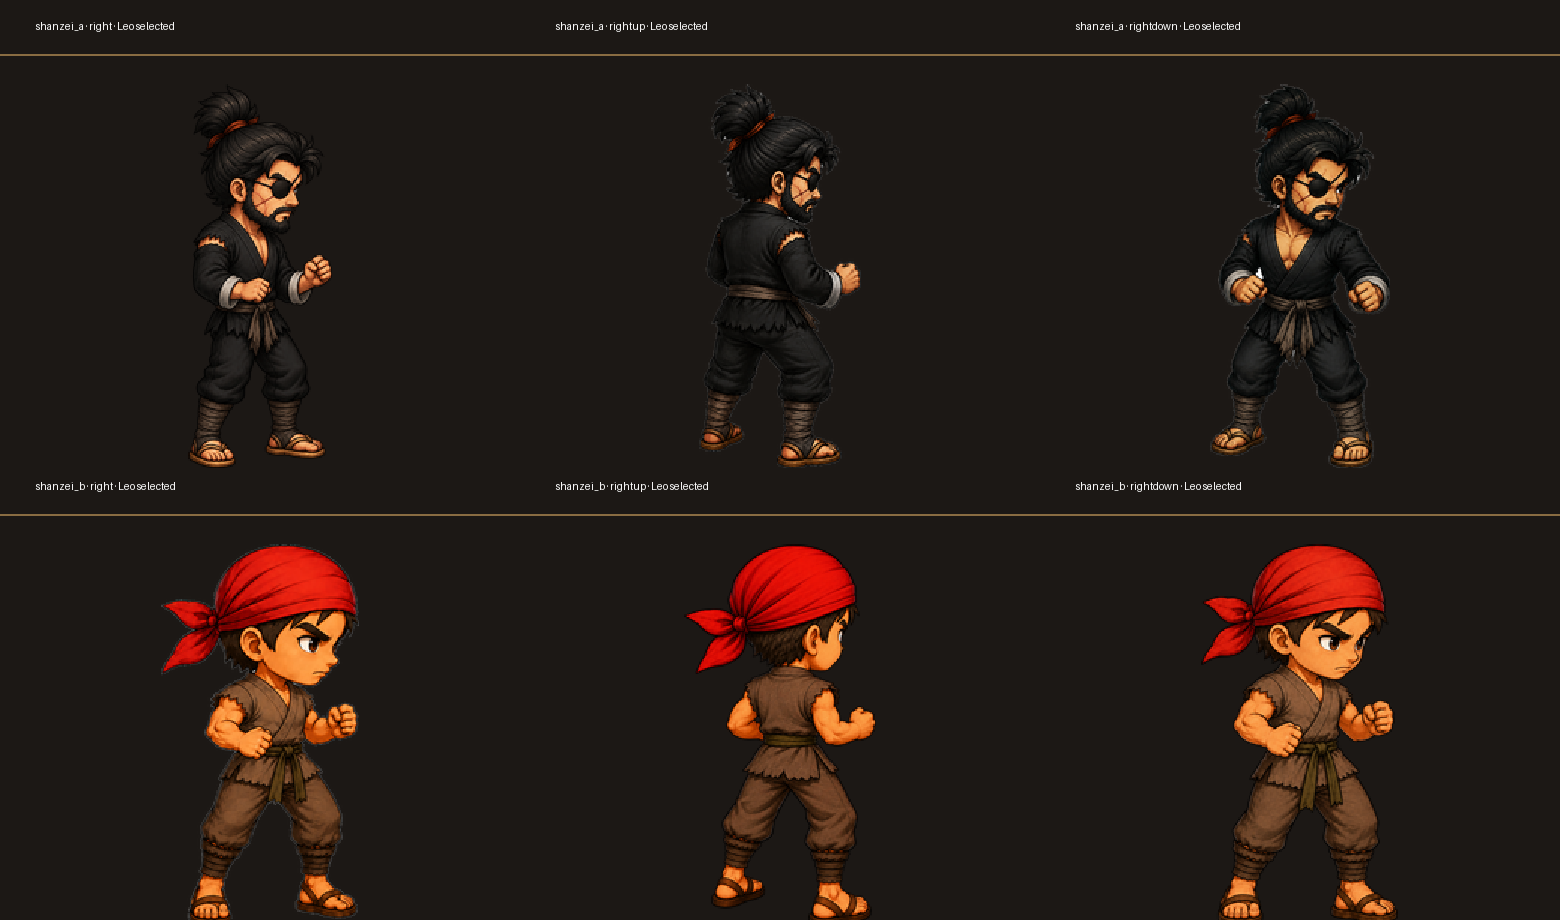
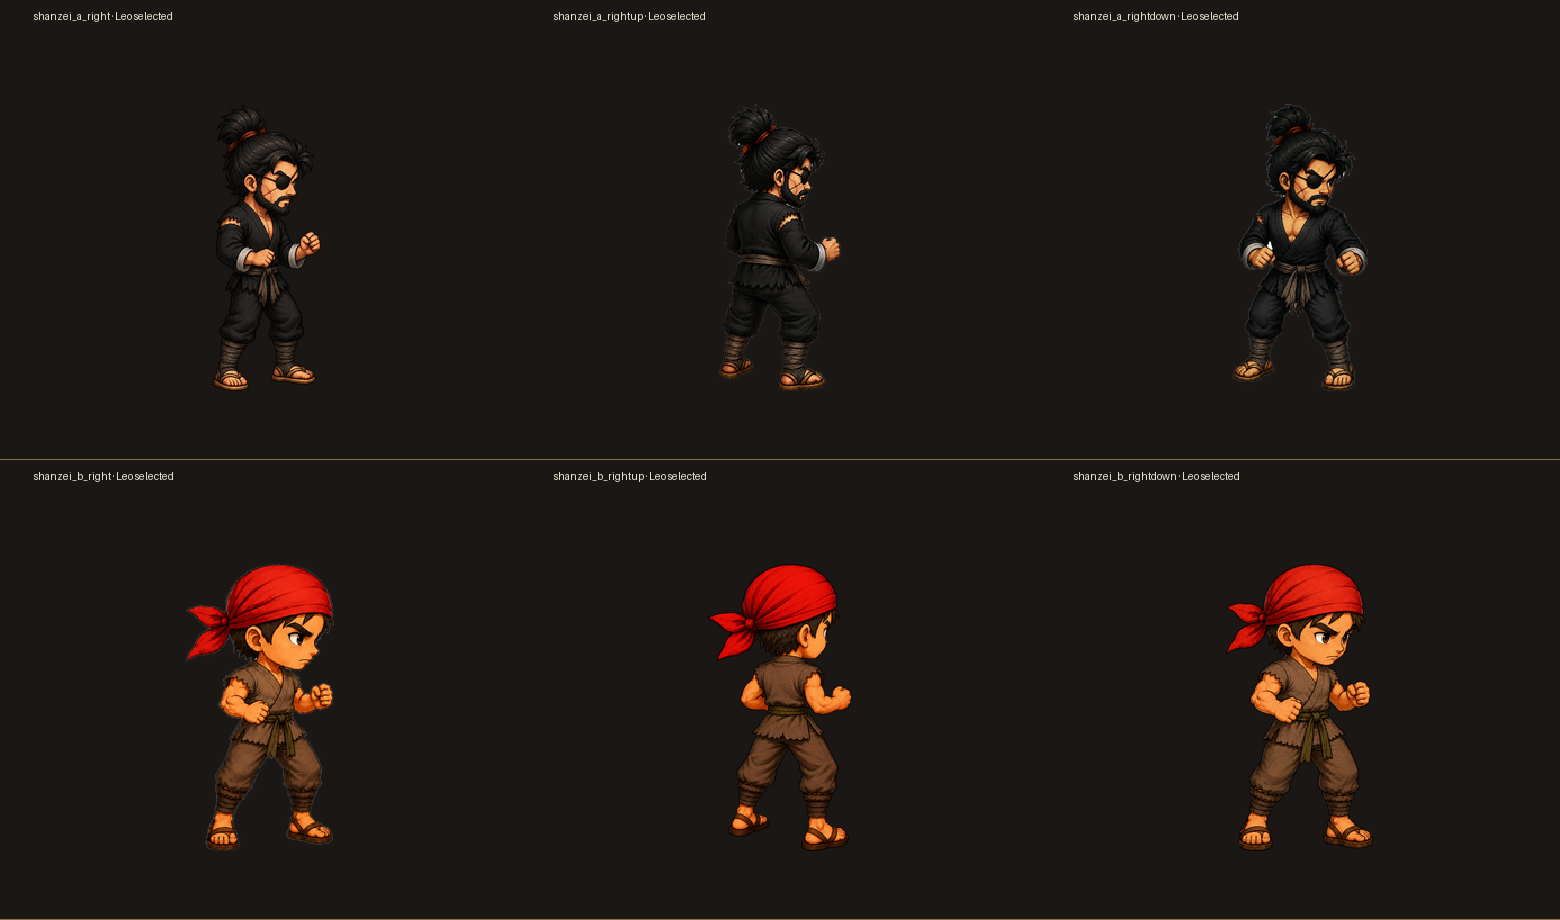
art: recenter canonical shanzei A-right anchor

diff --git a/assets/_trial_20260906/t45_batch2a_anchor_selection_v2_singleframe/qa/promote_recenter.py b/assets/_trial_20260906/t45_batch2a_anchor_selection_v2_singleframe/qa/promote_recenter.py
@@ -1,0 +1,129 @@
+from pathlib import Path
+import hashlib
+import json
+from collections import deque
+
+from PIL import Image, ImageDraw
+
+
+ROOT = Path(__file__).parents[1]
+CANONICAL = ROOT.parent / "t45_batch2a_a_right_singleframe_v1_codex_native" / "normalized" / "shanzei_a_right.png"
+PREVIEW = ROOT / "qa" / "shanzei_a_right_recentered_preview.png"
+BACKUP = ROOT / "qa" / "shanzei_a_right_before_recenter_canonical.png"
+CONTACT = ROOT / "contact_six_selected.png"
+MANIFEST = ROOT / "manifest.json"
+QA = ROOT / "qa" / "recenter_canonical_a_right_qa.json"
+THRESHOLD = 32
+DX = 6
+
+SOURCES = [
+    ("shanzei_a_right · Leo selected", CANONICAL),
+    ("shanzei_a_rightup · Leo selected", ROOT.parent / "t45_batch2a_a_rightup_singleframe_v1_codex_native" / "normalized" / "shanzei_a_rightup.png"),
+    ("shanzei_a_rightdown · Leo selected", ROOT.parent / "t45_batch2a_a_rightdown_singleframe_v1_codex_native" / "normalized" / "shanzei_a_rightdown.png"),
+    ("shanzei_b_right · Leo selected", ROOT.parent / "t45_batch2a_bright_v8_two_ref_hero_height_codex_native" / "normalized" / "shanzei_b_right.png"),
+    ("shanzei_b_rightup · Leo selected", ROOT.parent / "t45_batch2a_b_rightup_singleframe_v5_codex_native" / "normalized" / "shanzei_b_rightup.png"),
+    ("shanzei_b_rightdown · Leo selected", ROOT.parent / "t45_batch2a_b_rightdown_singleframe_v1_codex_native" / "normalized" / "shanzei_b_rightdown.png"),
+]
+
+
+def facts(image: Image.Image) -> dict:
+    image = image.convert("RGBA")
+    points = {
+        (x, y)
+        for y in range(image.height)
+        for x in range(image.width)
+        if image.getpixel((x, y))[3] > THRESHOLD
+    }
+    xs = [p[0] for p in points]
+    ys = [p[1] for p in points]
+    visited = set()
+    components = 0
+    for point in points:
+        if point in visited:
+            continue
+        components += 1
+        queue = deque([point])
+        visited.add(point)
+        while queue:
+            x, y = queue.popleft()
+            for neighbor in ((x - 1, y), (x + 1, y), (x, y - 1), (x, y + 1)):
+                if neighbor in points and neighbor not in visited:
+                    visited.add(neighbor)
+                    queue.append(neighbor)
+    perimeter = sum(
+        image.getpixel((x, y))[3] > THRESHOLD
+        for x in range(image.width)
+        for y in (0, image.height - 1)
+    ) + sum(
+        image.getpixel((x, y))[3] > THRESHOLD
+        for y in range(1, image.height - 1)
+        for x in (0, image.width - 1)
+    )
+    return {
+        "size": list(image.size),
+        "mode": image.mode,
+        "bbox": [min(xs), min(ys), max(xs) + 1, max(ys) + 1],
+        "visualHeight": max(ys) - min(ys) + 1,
+        "feetY": max(ys) + 1,
+        "centroidX": sum(xs) / len(xs),
+        "alphaExtrema": [min(pixel[3] for pixel in image.getdata()), max(pixel[3] for pixel in image.getdata())],
+        "perimeterNonzero": int(perimeter),
+        "components": components,
+    }
+
+
+def main() -> None:
+    source = Image.open(CANONICAL).convert("RGBA")
+    before = facts(source)
+    if not BACKUP.exists():
+        source.save(BACKUP, "PNG", optimize=False)
+    shifted = Image.open(PREVIEW).convert("RGBA")
+    shifted.save(CANONICAL, "PNG", optimize=False)
+    after = facts(shifted)
+
+    manifest = json.loads(MANIFEST.read_text())
+    for entry in manifest["files"]:
+        if entry["role"] == "shanzei_a" and entry["direction"] == "right":
+            entry["bbox"] = after["bbox"]
+            entry["centroidX"] = after["centroidX"]
+            entry["sha256"] = hashlib.sha256(CANONICAL.read_bytes()).hexdigest()
+            entry["correction"] = "deterministic horizontal translation +6px after full-pixel alpha>32 centroid review"
+            break
+    else:
+        raise RuntimeError("canonical A-right entry not found")
+    MANIFEST.write_text(json.dumps(manifest, ensure_ascii=False, indent=2) + "\n")
+
+    report = {
+        "task": "T45",
+        "target": "shanzei_a_right",
+        "sourceBefore": str(BACKUP),
+        "output": str(CANONICAL),
+        "operation": "deterministic horizontal translation",
+        "shiftX": DX,
+        "alphaThreshold": THRESHOLD,
+        "before": before,
+        "after": after,
+        "sourceBeforeSha256": hashlib.sha256(BACKUP.read_bytes()).hexdigest(),
+        "outputSha256": hashlib.sha256(CANONICAL.read_bytes()).hexdigest(),
+        "noRedraw": True,
+        "manifestUpdated": True,
+        "runtimeRelease": False,
+    }
+    QA.write_text(json.dumps(report, ensure_ascii=False, indent=2) + "\n")
+
+    cell_w, cell_h = 520, 460
+    sheet = Image.new("RGBA", (cell_w * 3, cell_h * 2), (27, 23, 20, 255))
+    draw = ImageDraw.Draw(sheet)
+    for index, (label, path) in enumerate(SOURCES):
+        image = Image.open(path).convert("RGBA")
+        x = (index % 3) * cell_w
+        y = (index // 3) * cell_h
+        draw.text((x + 34, y + 10), label, fill=(236, 231, 215, 255))
+        sheet.alpha_composite(image.resize((270, 360), Image.Resampling.NEAREST), (x + 125, y + 54))
+        draw.line((x, y + cell_h - 1, x + cell_w, y + cell_h - 1), fill=(147, 111, 47, 255), width=1)
+    sheet.save(CONTACT, "PNG", optimize=False)
+    print(json.dumps({"canonical": str(CANONICAL), "manifest": str(MANIFEST), "qa": str(QA), "contact": str(CONTACT), "before": before, "after": after}, ensure_ascii=False))
+
+
+if __name__ == "__main__":
+    main()

diff --git a/assets/_trial_20260906/t45_batch2a_anchor_selection_v2_singleframe/qa/build_recenter_preview.py b/assets/_trial_20260906/t45_batch2a_anchor_selection_v2_singleframe/qa/build_recenter_preview.py
@@ -1,0 +1,101 @@
+from pathlib import Path
+import hashlib
+import json
+
+from PIL import Image, ImageDraw
+
+
+ROOT = Path(__file__).parents[1]
+SOURCE = ROOT.parent / "t45_batch2a_a_right_singleframe_v1_codex_native" / "normalized" / "shanzei_a_right.png"
+PREVIEW = ROOT / "qa" / "shanzei_a_right_recentered_preview.png"
+REPORT = ROOT / "qa" / "recenter_canonical_a_right_preview.json"
+CONTACT = ROOT / "qa" / "recenter_canonical_six_preview.png"
+DX = 6
+THRESHOLD = 32
+
+CANONICAL = [
+    ("A · right · preview +6px", PREVIEW),
+    ("A · rightup · unchanged", ROOT.parent / "t45_batch2a_a_rightup_singleframe_v1_codex_native" / "normalized" / "shanzei_a_rightup.png"),
+    ("A · rightdown · unchanged", ROOT.parent / "t45_batch2a_a_rightdown_singleframe_v1_codex_native" / "normalized" / "shanzei_a_rightdown.png"),
+    ("B · right · unchanged", ROOT.parent / "t45_batch2a_bright_v8_two_ref_hero_height_codex_native" / "normalized" / "shanzei_b_right.png"),
+    ("B · rightup · unchanged", ROOT.parent / "t45_batch2a_b_rightup_singleframe_v5_codex_native" / "normalized" / "shanzei_b_rightup.png"),
+    ("B · rightdown · unchanged", ROOT.parent / "t45_batch2a_b_rightdown_singleframe_v1_codex_native" / "normalized" / "shanzei_b_rightdown.png"),
+]
+
+
+def facts(image: Image.Image) -> dict:
+    image = image.convert("RGBA")
+    points = [
+        (x, y)
+        for y in range(image.height)
+        for x in range(image.width)
+        if image.getpixel((x, y))[3] > THRESHOLD
+    ]
+    xs = [p[0] for p in points]
+    ys = [p[1] for p in points]
+    return {
+        "size": list(image.size),
+        "mode": image.mode,
+        "bboxInclusive": [min(xs), min(ys), max(xs), max(ys)],
+        "visualHeight": max(ys) - min(ys) + 1,
+        "feetY": max(ys) + 1,
+        "centroidX": sum(xs) / len(xs),
+        "alphaExtrema": [min(p[3] for p in image.getdata()), max(p[3] for p in image.getdata())],
+        "perimeterNonzero": sum(
+            1
+            for x in range(image.width)
+            for y in (0, image.height - 1)
+            if image.getpixel((x, y))[3] > THRESHOLD
+        )
+        + sum(
+            1
+            for y in range(1, image.height - 1)
+            for x in (0, image.width - 1)
+            if image.getpixel((x, y))[3] > THRESHOLD
+        ),
+    }
+
+
+def main() -> None:
+    source = Image.open(SOURCE).convert("RGBA")
+    before = facts(source)
+    shifted = Image.new("RGBA", source.size, (0, 0, 0, 0))
+    shifted.alpha_composite(source, (DX, 0))
+    shifted.save(PREVIEW, "PNG", optimize=False)
+    after = facts(shifted)
+
+    report = {
+        "task": "T45",
+        "scope": "canonical selected A-right preview only",
+        "source": str(SOURCE),
+        "preview": str(PREVIEW),
+        "operation": "deterministic horizontal translation; no redraw",
+        "shiftX": DX,
+        "alphaThreshold": THRESHOLD,
+        "before": before,
+        "after": after,
+        "sourceSha256": hashlib.sha256(SOURCE.read_bytes()).hexdigest(),
+        "previewSha256": hashlib.sha256(PREVIEW.read_bytes()).hexdigest(),
+        "manifestUpdated": False,
+        "runtimeRelease": False,
+    }
+    REPORT.write_text(json.dumps(report, ensure_ascii=False, indent=2) + "\n")
+
+    cell_w, cell_h = 520, 650
+    sheet = Image.new("RGBA", (cell_w * 3, cell_h * 2 + 54), (31, 35, 42, 255))
+    draw = ImageDraw.Draw(sheet)
+    draw.text((24, 14), "T45 canonical six · A-right recenter preview", fill=(236, 231, 215, 255))
+    for index, (label, path) in enumerate(CANONICAL):
+        sprite = Image.open(path).convert("RGBA")
+        x = (index % 3) * cell_w
+        y = 54 + (index // 3) * cell_h
+        draw.rounded_rectangle((x + 10, y + 8, x + cell_w - 10, y + cell_h - 10), radius=16, fill=(50, 56, 64, 255))
+        sheet.alpha_composite(sprite.resize((390, 520), Image.Resampling.NEAREST), (x + 65, y + 54))
+        draw.line((x + 28, y + 536, x + cell_w - 28, y + 536), fill=(199, 103, 73, 255), width=2)
+        draw.text((x + 24, y + 18), label, fill=(236, 231, 215, 255))
+    sheet.save(CONTACT, "PNG", optimize=False)
+    print(json.dumps({"preview": str(PREVIEW), "contact": str(CONTACT), "before": before, "after": after}, ensure_ascii=False))
+
+
+if __name__ == "__main__":
+    main()

diff --git a/tasks/LOG.md b/tasks/LOG.md
@@ -446,6 +446,9 @@
 | 2026-09-06 | Codex（art） → rd | 📤 T45 全天复盘与 skill v1.1 已交付 | commit `65a4747`，分支 `codex/t45-shanzei-idle-anchor-candidates`；projbus `seq=73`，交付复盘、skill 与留痕，甲·右补帧另续。 |
 | 2026-09-06 | Codex（art） | 🛠 T45 seq=72 甲·右整改单完成 | PM 数值对应已 superseded 旧批次文件；已按 +14px 平移并复验质心119.8211，修正证据 `assets/_trial_20260906/t45_batch2a_codex_native/qa/recenter_seq72_qa.json`，统一逐张 manifest 保持原样，待 rd 按正确入口重跑规格门。 |
 | 2026-09-06 | Codex（art） → rd | 📤 T45 seq=72 修正交付 | commit `ef0e517`，projbus `seq=74`；旧批次修正与 QA 已交，要求按统一逐张 manifest 重跑六张最终候选规格门，旧批次不作 runtime 来源。 |
+| 2026-09-06 | Leo → Codex（art） | ⚠ T45 六张预览来源混淆纠正 | Leo 明确 canonical 最终六张为 `assets/_trial_20260906/t45_batch2a_anchor_selection_v2_singleframe/contact_six_selected.png`；此前展示的是旧 `t45_batch2a_codex_native` 试产批次，乙旧头身比不代表最终稿。canonical 六张不改，后续只认统一 manifest/canonical contact。 |
+| 2026-09-06 | Codex（art） | 🔍 T45 canonical 甲·右居中复核 | 旧 seq=72 的 +14px 仅落在旧批次；最终 canonical 甲·右全像素质心实测 x=114.2724，生成 +6px 无重绘预览 `qa/recenter_canonical_six_preview.png`，未改正式候选/manifest/runtime，待 Leo 目验。 |
+| 2026-09-06 | Leo → Codex（art） | ✅ T45 canonical 甲·右修正版确认并固化 | Leo 确认 +6px 预览；已固化 canonical 甲·右，manifest/sha/bbox/全像素质心更新，QA `qa/recenter_canonical_a_right_qa.json` 与 `contact_six_selected.png` 更新；runtime 未写，待 rd 重跑第二道规格门。 |
 | 2026-09-06 | ZCode | 📋 出招速度需求 v1.0 定稿→主架构方案已约（seq=63） | Leo 二轮四裁落文（循环=时长本身/两段落点/普攻1s/3s→0.5s 数值框架）；语义级变更走完整链（方案→Leo拍板→发卡） |
 | 2026-09-06 | ZCode | 📋 武功 schema v0.2：castSpeed 出招系数入战斗层 | Leo 裁定=个体差异属性非统一曲线（轻招<1/绝学可 2）；内功加成速度=全体字段（随内功等级↑，初始 0.2）归内功系统 schema；两字段求和÷3000ms、和封顶≤6 |
 | 2026-09-06 | ZCode | 🔍 批 2a 锚候选门检：5/6 PASS，甲·右打回 | 全像素精扫发现甲·右躯干偏左（质心 105.8 应 ~120，偏 14px）——归一脚本对姿势性偏斜无纠偏能力（已知局限）；其余五张全 PASS（甲独眼/乙红巾形象立住、空拳确认）；整改单已发（平移回中或重出+QA 口径对齐全像素精扫） |

diff --git a/tasks/threads/T45.md b/tasks/threads/T45.md
@@ -87,3 +87,6 @@
 | 2026-09-06 | Codex（art） → rd | 📤 T45 全天复盘与 skill v1.1 已交付 | commit `65a4747` 已推隔离分支 `codex/t45-shanzei-idle-anchor-candidates`；projbus `seq=73` / messageId `beab33f0f7ce41928145a9164ca4290e`，交付全天复盘、skill 与 T45 留痕，下一步仅补甲·右居中单帧。 |
 | 2026-09-06 | Codex（art） | 🛠 T45 seq=72 甲·右整改单完成 | seq=72 的 bbox left=59/质心105.8 精确对应已 superseded 的 `assets/_trial_20260906/t45_batch2a_codex_native/normalized/shanzei_a_right.png`；已确定性右移 +14px，复验质心119.8211、bbox left=73、脚底300、RGBA/alpha/四边透明全过。原图与前后 hash 记录在 `assets/_trial_20260906/t45_batch2a_codex_native/qa/recenter_seq72_qa.json`；最终逐张闭合握拳 manifest 保持原样。 |
 | 2026-09-06 | Codex（art） → rd | 📤 T45 seq=72 修正已交付并请求按正确入口复扫 | commit `ef0e517` 已推隔离分支；projbus `seq=74` / messageId `3476719cb3ab45a5ba64072b0ce86a71`。旧批次修正已交，要求以 `t45_batch2a_anchor_selection_v2_singleframe/manifest.json` 为唯一最终候选入口复扫，旧批次仅作审计。 |
+| 2026-09-06 | Leo → Codex（art） | ⚠ 六张预览来源混淆纠正 | Leo 指明最终定稿是 `t45_batch2a_anchor_selection_v2_singleframe/contact_six_selected.png`（与其提供的 canonical 对照图一致）；此前误展示 `t45_batch2a_codex_native` 旧试产批次，乙系旧头身比不代表最终候选。已确认不改 canonical 六张，后续仅以统一 manifest/canonical contact 为准。 |
+| 2026-09-06 | Codex（art） | 🔍 T45 canonical 甲·右居中复核与修正版预览 | 发现 canonical 甲·右实际全像素 alpha>32 质心 x=114.2724，而 manifest 的 x=120 来自包络框中点口径；按目标 x≈120 生成只平移 +6px 的 `qa/shanzei_a_right_recentered_preview.png` 与六张预览 `qa/recenter_canonical_six_preview.png`。未覆盖 canonical、未更新 manifest、未 release，待 Leo 目验。 |
+| 2026-09-06 | Leo → Codex（art） | ✅ T45 canonical 甲·右修正版目验通过 | Leo 确认 +6px 平移预览无问题；已将预览固化为 canonical 甲·右，更新 `manifest.json` 的 bbox/全像素质心/sha256，生成 `qa/recenter_canonical_a_right_qa.json`，并重排 `contact_six_selected.png`；未写 runtime，待 rd 重新规格门检。 |

diff --git a/tasks/handoff/T45-batch2a-six-unarmed-idle-anchors-candidate-2026-09-06.md b/tasks/handoff/T45-batch2a-six-unarmed-idle-anchors-candidate-2026-09-06.md
@@ -9,6 +9,8 @@
 
 - 统一 manifest：`assets/_trial_20260906/t45_batch2a_anchor_selection_v2_singleframe/manifest.json`
 - 六张对照：`assets/_trial_20260906/t45_batch2a_anchor_selection_v2_singleframe/contact_six_selected.png`
+- 甲·右居中修正 QA：`assets/_trial_20260906/t45_batch2a_anchor_selection_v2_singleframe/qa/recenter_canonical_a_right_qa.json`
+- 修正说明：canonical 甲·右仅做确定性水平平移 +6px（全像素 alpha>32 质心 `114.2724 → 120.2724`），无重画；原图备份在同目录 `qa/shanzei_a_right_before_recenter_canonical.png`。
 
 所有 PNG 均为 240×320 RGBA；manifest 逐项记录 alpha、可见框、可见高度、脚底基线、中心和 SHA-256。
 
